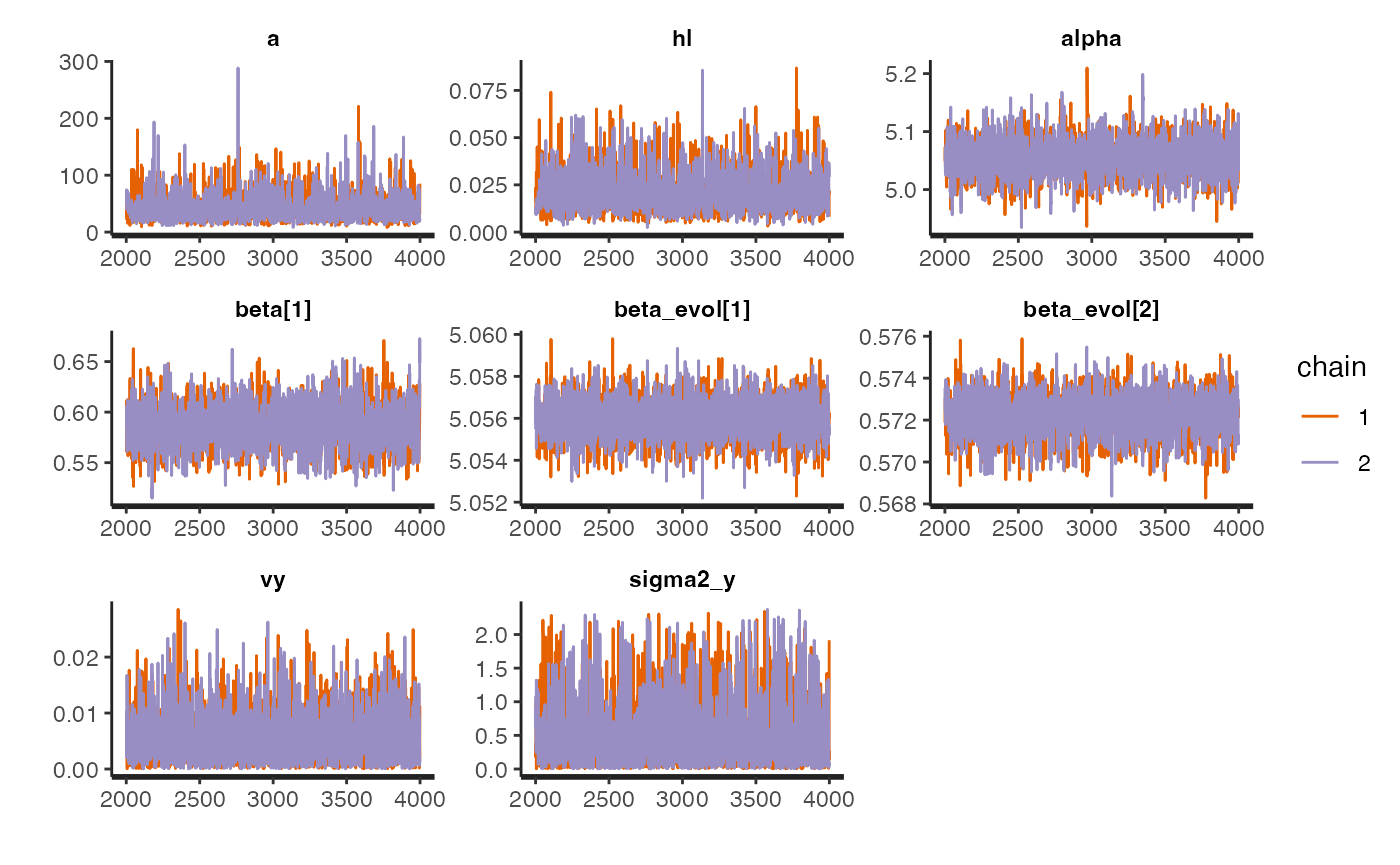
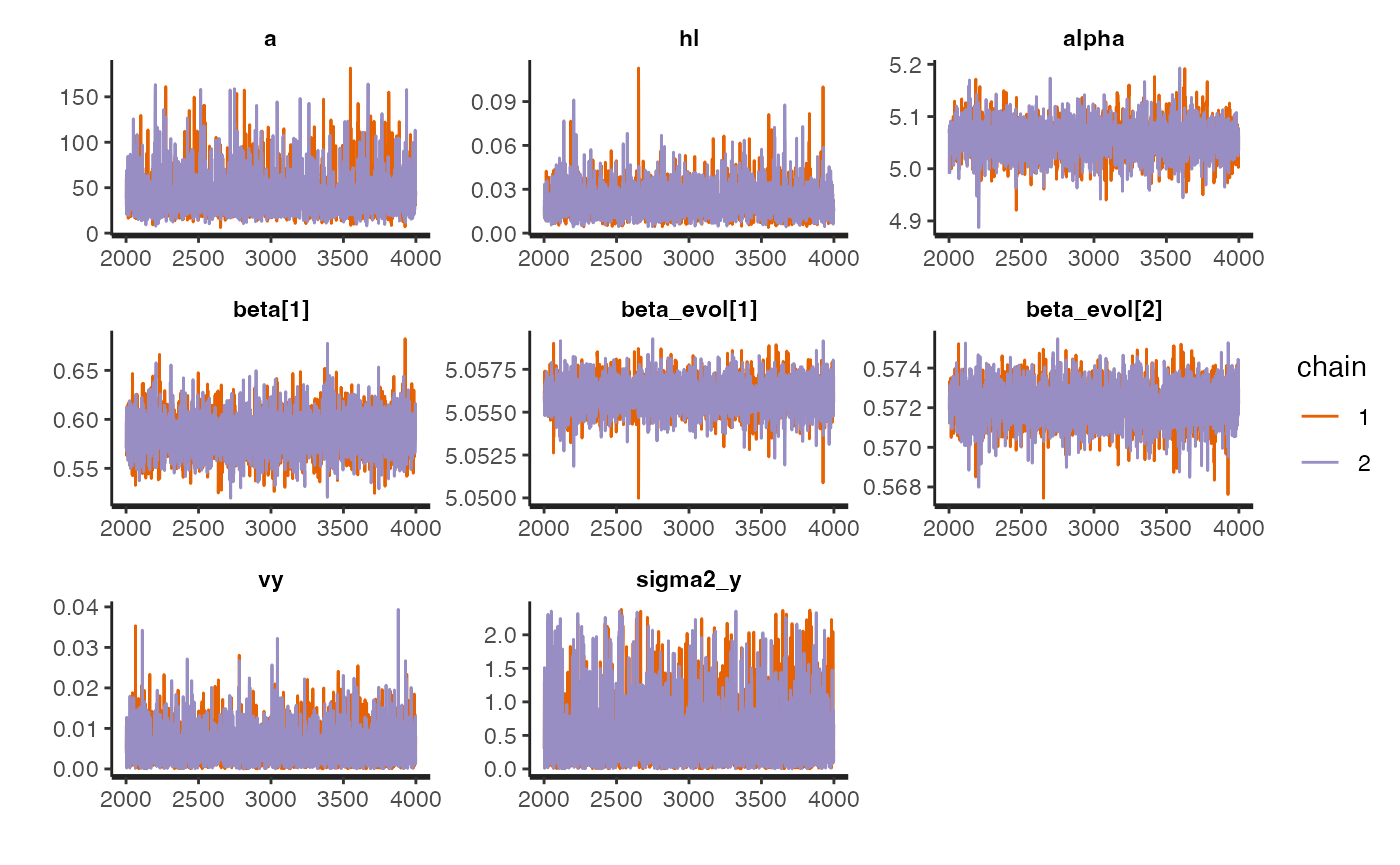
edit

diff --git a/docs/articles/OU-Models.html b/docs/articles/OU-Models.html
@@ -254,13 +254,13 @@
 <div class="sourceCode" id="cb9"><pre class="downlit sourceCode r">
 <code class="sourceCode R"><span class="co">#abline(v=(c(log(2)/0.07142857,log(2)/1)), col="red", lwd=2, lty=2) #Lines for 1 Ma and length of tree (14 Ma) - </span>
 <span class="fu"><a href="https://rdrr.io/r/base/Extremes.html" class="external-link">min</a></span><span class="op">(</span><span class="va">samp</span><span class="op">)</span>
-<span class="co">#&gt; [1] 0.03632472</span>
+<span class="co">#&gt; [1] 0.01052799</span>
 <span class="fu"><a href="https://rdrr.io/r/base/Extremes.html" class="external-link">max</a></span><span class="op">(</span><span class="va">samp</span><span class="op">)</span>
-<span class="co">#&gt; [1] 452.0468</span>
+<span class="co">#&gt; [1] 405.2668</span>
 <span class="fu"><a href="https://rdrr.io/r/base/Log.html" class="external-link">log</a></span><span class="op">(</span><span class="fl">2</span><span class="op">)</span><span class="op">/</span><span class="fu"><a href="https://rdrr.io/r/base/Extremes.html" class="external-link">min</a></span><span class="op">(</span><span class="va">samp</span><span class="op">)</span>
-<span class="co">#&gt; [1] 19.08197</span>
+<span class="co">#&gt; [1] 65.8385</span>
 <span class="fu"><a href="https://rdrr.io/r/base/Log.html" class="external-link">log</a></span><span class="op">(</span><span class="fl">2</span><span class="op">)</span><span class="op">/</span><span class="fu"><a href="https://rdrr.io/r/base/Extremes.html" class="external-link">max</a></span><span class="op">(</span><span class="va">samp</span><span class="op">)</span>
-<span class="co">#&gt; [1] 0.001533353</span>
+<span class="co">#&gt; [1] 0.001710348</span>
 
 <span class="va">quantiles</span> <span class="op">&lt;-</span> <span class="fu"><a href="https://rdrr.io/r/base/c.html" class="external-link">c</a></span><span class="op">(</span><span class="fl">0</span>, <span class="fl">0.01</span>, <span class="fl">0.025</span>,<span class="fl">0.10</span>, <span class="fl">0.25</span>, <span class="fl">0.5</span>, <span class="fl">0.75</span>,<span class="fl">0.90</span>,<span class="fl">0.95</span>, <span class="fl">0.975</span>, <span class="fl">0.99</span>, <span class="fl">1</span><span class="op">)</span>
 <span class="co">#hls &lt;- rlnorm(10000, meanlog=log(2)/par.alpha$meanlog, sdlog=log(2)/par.alpha$sdlog)</span>
@@ -268,7 +268,7 @@
 <span class="va">qs</span> <span class="op">&lt;-</span> <span class="fu"><a href="https://rdrr.io/r/stats/quantile.html" class="external-link">quantile</a></span><span class="op">(</span><span class="fu"><a href="https://rdrr.io/r/base/Log.html" class="external-link">log</a></span><span class="op">(</span><span class="fl">2</span><span class="op">)</span><span class="op">/</span><span class="va">samp</span>, <span class="va">quantiles</span><span class="op">)</span> <span class="co">## Use 'alfs' and math to calculate the quantiles of phylogenetic half-life</span>
 <span class="fu"><a href="https://rdrr.io/r/base/Round.html" class="external-link">round</a></span><span class="op">(</span><span class="va">qs</span>, <span class="fl">2</span><span class="op">)</span>
 <span class="co">#&gt;    0%    1%  2.5%   10%   25%   50%   75%   90%   95% 97.5%   99%  100% </span>
-<span class="co">#&gt;  0.00  0.01  0.02  0.04  0.09  0.20  0.46  0.98  1.52  2.26  3.72 19.08</span>
+<span class="co">#&gt;  0.00  0.01  0.02  0.04  0.08  0.20  0.46  0.98  1.55  2.31  3.69 65.84</span>
 
 <span class="fu"><a href="https://rdrr.io/r/graphics/hist.html" class="external-link">hist</a></span><span class="op">(</span><span class="op">(</span><span class="fu"><a href="https://rdrr.io/r/base/Log.html" class="external-link">log</a></span><span class="op">(</span><span class="fl">2</span><span class="op">)</span><span class="op">/</span><span class="va">samp</span><span class="op">)</span>, breaks<span class="op">=</span><span class="fl">10000</span>, main<span class="op">=</span><span class="st">"Prior density of half-life"</span>,xlim<span class="op">=</span><span class="fu"><a href="https://rdrr.io/r/base/c.html" class="external-link">c</a></span><span class="op">(</span><span class="fl">0</span>,<span class="fl">3</span><span class="op">)</span><span class="op">)</span>
 <span class="fu"><a href="https://rdrr.io/r/graphics/abline.html" class="external-link">abline</a></span><span class="op">(</span>v<span class="op">=</span><span class="op">(</span><span class="fu"><a href="https://rdrr.io/r/base/c.html" class="external-link">c</a></span><span class="op">(</span><span class="fl">0.04</span>,<span class="fl">1</span><span class="op">)</span><span class="op">)</span>, col<span class="op">=</span><span class="st">"red"</span>, lwd<span class="op">=</span><span class="fl">2</span>, lty<span class="op">=</span><span class="fl">2</span><span class="op">)</span> <span class="co">#Lines for 1 Ma and length of tree (27 Ma) - </span></code></pre></div>
@@ -298,21 +298,23 @@
 <div class="sourceCode" id="cb12"><pre class="downlit sourceCode r">
 <code class="sourceCode R"><span class="co">#abline(v=(c(log(2)/0.07142857,log(2)/1)), col="red", lwd=2, lty=2) #Lines for 1 Ma and length of tree (14 Ma) - </span>
 <span class="fu"><a href="https://rdrr.io/r/base/Extremes.html" class="external-link">min</a></span><span class="op">(</span><span class="va">samp</span><span class="op">)</span>
-<span class="co">#&gt; [1] 1.342805e-05</span>
+<span class="co">#&gt; [1] 8.337682e-06</span>
 <span class="fu"><a href="https://rdrr.io/r/base/Extremes.html" class="external-link">max</a></span><span class="op">(</span><span class="va">samp</span><span class="op">)</span>
-<span class="co">#&gt; [1] 689.2759</span>
+<span class="co">#&gt; [1] 10648.26</span>
 <span class="fu"><a href="https://rdrr.io/r/base/Log.html" class="external-link">log</a></span><span class="op">(</span><span class="fl">2</span><span class="op">)</span><span class="op">/</span><span class="fu"><a href="https://rdrr.io/r/base/Extremes.html" class="external-link">min</a></span><span class="op">(</span><span class="va">samp</span><span class="op">)</span>
-<span class="co">#&gt; [1] 51619.34</span>
+<span class="co">#&gt; [1] 83134.28</span>
 <span class="fu"><a href="https://rdrr.io/r/base/Log.html" class="external-link">log</a></span><span class="op">(</span><span class="fl">2</span><span class="op">)</span><span class="op">/</span><span class="fu"><a href="https://rdrr.io/r/base/Extremes.html" class="external-link">max</a></span><span class="op">(</span><span class="va">samp</span><span class="op">)</span>
-<span class="co">#&gt; [1] 0.001005616</span>
+<span class="co">#&gt; [1] 6.509486e-05</span>
 
 <span class="va">quantiles</span> <span class="op">&lt;-</span> <span class="fu"><a href="https://rdrr.io/r/base/c.html" class="external-link">c</a></span><span class="op">(</span><span class="fl">0</span>, <span class="fl">0.01</span>, <span class="fl">0.025</span>,<span class="fl">0.10</span>, <span class="fl">0.25</span>, <span class="fl">0.5</span>, <span class="fl">0.75</span>, <span class="fl">0.90</span>, <span class="fl">0.975</span>, <span class="fl">0.99</span>, <span class="fl">1</span><span class="op">)</span>
 <span class="co">#hls &lt;- rlnorm(10000, meanlog=log(2)/par.alpha$meanlog, sdlog=log(2)/par.alpha$sdlog)</span>
 <span class="co">#hls&lt;-hls[hls&gt;=0]</span>
 <span class="va">qs</span> <span class="op">&lt;-</span> <span class="fu"><a href="https://rdrr.io/r/stats/quantile.html" class="external-link">quantile</a></span><span class="op">(</span><span class="va">samp</span>, <span class="va">quantiles</span><span class="op">)</span> <span class="co">## Use 'alfs' and math to calculate the quantiles of phylogenetic half-life</span>
 <span class="fu"><a href="https://rdrr.io/r/base/Round.html" class="external-link">round</a></span><span class="op">(</span><span class="va">qs</span>, <span class="fl">2</span><span class="op">)</span>
-<span class="co">#&gt;     0%     1%   2.5%    10%    25%    50%    75%    90%  97.5%    99%   100% </span>
-<span class="co">#&gt;   0.00   0.00   0.00   0.02   0.04   0.10   0.24   0.62   2.57   6.93 689.28</span>
+<span class="co">#&gt;       0%       1%     2.5%      10%      25%      50%      75%      90% </span>
+<span class="co">#&gt;     0.00     0.00     0.00     0.02     0.04     0.10     0.24     0.64 </span>
+<span class="co">#&gt;    97.5%      99%     100% </span>
+<span class="co">#&gt;     2.71     6.84 10648.26</span>
 
 <span class="fu"><a href="https://rdrr.io/r/graphics/hist.html" class="external-link">hist</a></span><span class="op">(</span><span class="va">samp</span><span class="op">/</span><span class="op">(</span><span class="fl">2</span><span class="op">*</span><span class="fl">2</span><span class="op">)</span>, breaks<span class="op">=</span><span class="fl">10000</span>, main<span class="op">=</span><span class="st">"Prior density of Vy"</span>,xlim<span class="op">=</span><span class="fu"><a href="https://rdrr.io/r/base/c.html" class="external-link">c</a></span><span class="op">(</span><span class="fl">0</span>,<span class="fl">3</span><span class="op">)</span><span class="op">)</span></code></pre></div>
 <p><img src="OU-Models_files/figure-html/unnamed-chunk-6-2.png" width="700"></p>
@@ -337,15 +339,15 @@
 <span class="co">#&gt; post-warmup draws per chain=2000, total post-warmup draws=4000.</span>
 <span class="co">#&gt; </span>
 <span class="co">#&gt;           mean se_mean   sd 2.5%  25%  50%  75% 97.5% n_eff Rhat</span>
-<span class="co">#&gt; a         5.67    0.26 8.54 0.39 1.44 2.87 6.02 29.39  1072    1</span>
-<span class="co">#&gt; hl        0.40    0.01 0.51 0.02 0.12 0.24 0.48  1.78  1730    1</span>
-<span class="co">#&gt; alpha     5.05    0.00 0.04 4.97 5.03 5.05 5.08  5.14  1454    1</span>
-<span class="co">#&gt; beta[1]   0.57    0.00 0.02 0.53 0.55 0.57 0.58  0.61  2000    1</span>
-<span class="co">#&gt; vy        0.02    0.00 0.01 0.01 0.01 0.02 0.02  0.05  2207    1</span>
-<span class="co">#&gt; r_squared 0.96    0.00 0.00 0.95 0.96 0.96 0.96  0.97  1030    1</span>
-<span class="co">#&gt; sigma2_y  0.16    0.01 0.22 0.02 0.05 0.08 0.16  0.78   979    1</span>
+<span class="co">#&gt; a         5.60    0.27 8.27 0.41 1.47 2.90 6.28 29.58   945    1</span>
+<span class="co">#&gt; hl        0.39    0.01 0.48 0.02 0.11 0.24 0.47  1.71  1330    1</span>
+<span class="co">#&gt; alpha     5.05    0.00 0.04 4.97 5.03 5.05 5.08  5.14  1834    1</span>
+<span class="co">#&gt; beta[1]   0.57    0.00 0.02 0.53 0.56 0.57 0.58  0.61  1979    1</span>
+<span class="co">#&gt; vy        0.02    0.00 0.01 0.01 0.01 0.01 0.02  0.04  2052    1</span>
+<span class="co">#&gt; r_squared 0.96    0.00 0.00 0.95 0.96 0.96 0.96  0.97   897    1</span>
+<span class="co">#&gt; sigma2_y  0.15    0.01 0.22 0.02 0.05 0.08 0.16  0.80   919    1</span>
 <span class="co">#&gt; </span>
-<span class="co">#&gt; Samples were drawn using NUTS(diag_e) at Thu Dec  9 09:18:25 2021.</span>
+<span class="co">#&gt; Samples were drawn using NUTS(diag_e) at Thu Dec  9 09:47:31 2021.</span>
 <span class="co">#&gt; For each parameter, n_eff is a crude measure of effective sample size,</span>
 <span class="co">#&gt; and Rhat is the potential scale reduction factor on split chains (at </span>
 <span class="co">#&gt; convergence, Rhat=1).</span>
@@ -385,17 +387,17 @@
 <span class="co">#&gt; post-warmup draws per chain=2000, total post-warmup draws=4000.</span>
 <span class="co">#&gt; </span>
 <span class="co">#&gt;               mean se_mean    sd  2.5%   25%   50%   75%  97.5% n_eff Rhat</span>
-<span class="co">#&gt; a            42.34    0.59 22.73 14.84 27.04 36.79 51.70 101.32  1496    1</span>
-<span class="co">#&gt; hl            0.02    0.00  0.01  0.01  0.01  0.02  0.03   0.05  1771    1</span>
-<span class="co">#&gt; alpha         5.06    0.00  0.03  4.99  5.04  5.06  5.08   5.12  2533    1</span>
-<span class="co">#&gt; beta[1]       0.59    0.00  0.02  0.55  0.57  0.59  0.60   0.63  2705    1</span>
-<span class="co">#&gt; beta_evol[1]  5.06    0.00  0.00  5.05  5.06  5.06  5.06   5.06  3868    1</span>
-<span class="co">#&gt; beta_evol[2]  0.57    0.00  0.00  0.57  0.57  0.57  0.57   0.57  2226    1</span>
-<span class="co">#&gt; vy            0.01    0.00  0.00  0.00  0.00  0.00  0.01   0.02  3503    1</span>
-<span class="co">#&gt; r_squared     0.96    0.00  0.00  0.95  0.96  0.96  0.96   0.97  1557    1</span>
-<span class="co">#&gt; sigma2_y      0.47    0.01  0.47  0.01  0.12  0.31  0.67   1.82  1872    1</span>
+<span class="co">#&gt; a            43.01    0.53 23.09 14.69 27.00 37.29 52.82 104.58  1913    1</span>
+<span class="co">#&gt; hl            0.02    0.00  0.01  0.01  0.01  0.02  0.03   0.05  2231    1</span>
+<span class="co">#&gt; alpha         5.06    0.00  0.03  4.99  5.04  5.06  5.08   5.12  2023    1</span>
+<span class="co">#&gt; beta[1]       0.59    0.00  0.02  0.55  0.57  0.58  0.60   0.63  2800    1</span>
+<span class="co">#&gt; beta_evol[1]  5.06    0.00  0.00  5.05  5.06  5.06  5.06   5.06  3838    1</span>
+<span class="co">#&gt; beta_evol[2]  0.57    0.00  0.00  0.57  0.57  0.57  0.57   0.57  2651    1</span>
+<span class="co">#&gt; vy            0.01    0.00  0.00  0.00  0.00  0.00  0.01   0.02  3517    1</span>
+<span class="co">#&gt; r_squared     0.96    0.00  0.00  0.95  0.96  0.96  0.96   0.97  1368    1</span>
+<span class="co">#&gt; sigma2_y      0.49    0.01  0.50  0.01  0.12  0.31  0.70   1.91  2058    1</span>
 <span class="co">#&gt; </span>
-<span class="co">#&gt; Samples were drawn using NUTS(diag_e) at Thu Dec  9 09:24:19 2021.</span>
+<span class="co">#&gt; Samples were drawn using NUTS(diag_e) at Thu Dec  9 09:53:40 2021.</span>
 <span class="co">#&gt; For each parameter, n_eff is a crude measure of effective sample size,</span>
 <span class="co">#&gt; and Rhat is the potential scale reduction factor on split chains (at </span>
 <span class="co">#&gt; convergence, Rhat=1).</span>
@@ -424,7 +426,7 @@
 <span class="va">lml.fit.adaptive</span><span class="op">&lt;-</span><span class="fu"><a href="https://rdrr.io/pkg/bridgesampling/man/bridge_sampler.html" class="external-link">bridge_sampler</a></span><span class="op">(</span><span class="va">fit.adaptive</span>,silent<span class="op">=</span><span class="cn">TRUE</span><span class="op">)</span>
 <span class="va">BF_att</span> <span class="op">&lt;-</span> <span class="fu">bridgesampling</span><span class="fu">::</span><span class="fu"><a href="https://rdrr.io/pkg/bridgesampling/man/bf.html" class="external-link">bf</a></span><span class="op">(</span><span class="va">lml.fit.direct</span>, <span class="va">lml.fit.adaptive</span><span class="op">)</span>
 <span class="va">BF_att</span>
-<span class="co">#&gt; Estimated Bayes factor in favor of lml.fit.direct over lml.fit.adaptive: 33.22295</span></code></pre></div>
+<span class="co">#&gt; Estimated Bayes factor in favor of lml.fit.direct over lml.fit.adaptive: 32.76058</span></code></pre></div>
 <p>We find that the data is 5.2 more likely under a model that assumes a direct effect model rather than af adaptive model.</p>
 </div>
 <div class="section level2">
@@ -440,12 +442,12 @@
 <span class="co">#&gt; post-warmup draws per chain=2000, total post-warmup draws=4000.</span>
 <span class="co">#&gt; </span>
 <span class="co">#&gt;           mean se_mean   sd 2.5%  25%  50%  75% 97.5% n_eff Rhat</span>
-<span class="co">#&gt; alpha     5.05       0 0.08 4.89 5.00 5.05 5.11  5.22  2861    1</span>
-<span class="co">#&gt; beta[1]   0.56       0 0.02 0.51 0.54 0.56 0.57  0.60  2949    1</span>
-<span class="co">#&gt; r_squared 0.99       0 0.01 0.98 0.99 0.99 0.99  0.99  2577    1</span>
-<span class="co">#&gt; sigma2_y  0.03       0 0.01 0.01 0.02 0.02 0.03  0.05  3048    1</span>
+<span class="co">#&gt; alpha     5.05       0 0.08 4.89 5.00 5.05 5.10  5.22  2970    1</span>
+<span class="co">#&gt; beta[1]   0.56       0 0.02 0.51 0.54 0.56 0.57  0.60  3490    1</span>
+<span class="co">#&gt; r_squared 0.99       0 0.01 0.97 0.99 0.99 0.99  0.99  2400    1</span>
+<span class="co">#&gt; sigma2_y  0.03       0 0.01 0.01 0.02 0.02 0.03  0.05  2736    1</span>
 <span class="co">#&gt; </span>
-<span class="co">#&gt; Samples were drawn using NUTS(diag_e) at Thu Dec  9 09:27:32 2021.</span>
+<span class="co">#&gt; Samples were drawn using NUTS(diag_e) at Thu Dec  9 09:56:29 2021.</span>
 <span class="co">#&gt; For each parameter, n_eff is a crude measure of effective sample size,</span>
 <span class="co">#&gt; and Rhat is the potential scale reduction factor on split chains (at </span>
 <span class="co">#&gt; convergence, Rhat=1).</span>
@@ -475,7 +477,7 @@
 
 <span class="va">BF_att</span> <span class="op">&lt;-</span> <span class="fu">bridgesampling</span><span class="fu">::</span><span class="fu"><a href="https://rdrr.io/pkg/bridgesampling/man/bf.html" class="external-link">bf</a></span><span class="op">(</span><span class="va">lml.fit.direct</span>, <span class="va">lml.fit.BM</span><span class="op">)</span>
 <span class="va">BF_att</span>
-<span class="co">#&gt; Estimated Bayes factor in favor of lml.fit.direct over lml.fit.BM: 1.30701</span></code></pre></div>
+<span class="co">#&gt; Estimated Bayes factor in favor of lml.fit.direct over lml.fit.BM: 1.27662</span></code></pre></div>
 <p>Here the direct fit model has a Bayes Factor of 0.7 over the BM model, which makes sense for this data as the estimated phylogenetic half life is quite long, 65% the length of the phylogeny.</p>
 </div>
 <div class="section level2">

diff --git a/docs/articles/OU-Models-Prediction.html b/docs/articles/OU-Models-Prediction.html
@@ -245,17 +245,17 @@
 <span class="co">#&gt; post-warmup draws per chain=2000, total post-warmup draws=4000.</span>
 <span class="co">#&gt; </span>
 <span class="co">#&gt;                      mean se_mean   sd  2.5%   25%   50%   75% 97.5% n_eff Rhat</span>
-<span class="co">#&gt; a                    5.44    0.28 8.39  0.39  1.32  2.60  5.95 28.49   917    1</span>
-<span class="co">#&gt; hl                   0.42    0.01 0.56  0.02  0.12  0.27  0.53  1.79  2010    1</span>
-<span class="co">#&gt; alpha                5.07    0.00 0.04  4.99  5.04  5.06  5.09  5.15  2074    1</span>
-<span class="co">#&gt; beta[1]              0.57    0.00 0.02  0.53  0.56  0.57  0.58  0.61  1912    1</span>
-<span class="co">#&gt; r_squared            0.96    0.00 0.00  0.95  0.96  0.96  0.97  0.97  1088    1</span>
-<span class="co">#&gt; sigma2_y             0.14    0.01 0.21  0.02  0.04  0.07  0.15  0.75   959    1</span>
-<span class="co">#&gt; RMSE                 0.29    0.00 0.03  0.24  0.28  0.29  0.31  0.35  3657    1</span>
-<span class="co">#&gt; RMSE_mu              0.27    0.00 0.02  0.26  0.26  0.26  0.27  0.32  1218    1</span>
-<span class="co">#&gt; X_pred_fos_means[1] -0.47    0.00 0.17 -0.81 -0.59 -0.47 -0.36 -0.13  3567    1</span>
+<span class="co">#&gt; a                    5.74    0.23 8.16  0.40  1.46  2.84  6.49 27.65  1243    1</span>
+<span class="co">#&gt; hl                   0.39    0.01 0.51  0.03  0.11  0.24  0.47  1.72  1786    1</span>
+<span class="co">#&gt; alpha                5.07    0.00 0.04  5.00  5.04  5.06  5.08  5.15  1409    1</span>
+<span class="co">#&gt; beta[1]              0.57    0.00 0.02  0.53  0.56  0.57  0.58  0.61  2309    1</span>
+<span class="co">#&gt; r_squared            0.96    0.00 0.00  0.95  0.96  0.96  0.97  0.97  1156    1</span>
+<span class="co">#&gt; sigma2_y             0.15    0.01 0.22  0.02  0.04  0.07  0.16  0.76  1248    1</span>
+<span class="co">#&gt; RMSE                 0.29    0.00 0.03  0.24  0.27  0.29  0.31  0.35  3459    1</span>
+<span class="co">#&gt; RMSE_mu              0.27    0.00 0.02  0.26  0.26  0.26  0.27  0.32   919    1</span>
+<span class="co">#&gt; X_pred_fos_means[1] -0.47    0.00 0.17 -0.81 -0.59 -0.48 -0.37 -0.14  3216    1</span>
 <span class="co">#&gt; </span>
-<span class="co">#&gt; Samples were drawn using NUTS(diag_e) at Thu Dec  9 09:07:15 2021.</span>
+<span class="co">#&gt; Samples were drawn using NUTS(diag_e) at Thu Dec  9 09:35:27 2021.</span>
 <span class="co">#&gt; For each parameter, n_eff is a crude measure of effective sample size,</span>
 <span class="co">#&gt; and Rhat is the potential scale reduction factor on split chains (at </span>
 <span class="co">#&gt; convergence, Rhat=1).</span>
@@ -441,17 +441,17 @@
 <span class="co">#&gt; post-warmup draws per chain=2000, total post-warmup draws=4000.</span>
 <span class="co">#&gt; </span>
 <span class="co">#&gt;                     mean se_mean   sd 2.5%  25%  50%  75% 97.5% n_eff Rhat</span>
-<span class="co">#&gt; a                   5.81    0.27 8.51 0.45 1.53 2.92 6.49 31.02   973    1</span>
-<span class="co">#&gt; hl                  0.37    0.01 0.49 0.02 0.11 0.24 0.45  1.53  1678    1</span>
-<span class="co">#&gt; alpha               5.06    0.00 0.04 5.00 5.04 5.06 5.08  5.15  2123    1</span>
-<span class="co">#&gt; beta[1]             0.57    0.00 0.02 0.53 0.56 0.57 0.58  0.61  2089    1</span>
-<span class="co">#&gt; r_squared           0.96    0.00 0.00 0.95 0.96 0.96 0.97  0.97  1222    1</span>
-<span class="co">#&gt; sigma2_y            0.15    0.01 0.23 0.02 0.04 0.08 0.16  0.82   874    1</span>
-<span class="co">#&gt; RMSE                0.21    0.00 0.03 0.17 0.20 0.21 0.23  0.27  3701    1</span>
-<span class="co">#&gt; RMSE_mu             0.15    0.00 0.01 0.15 0.15 0.15 0.16  0.18  1210    1</span>
-<span class="co">#&gt; Y_pred_fos_means[1] 5.09    0.00 0.13 4.85 5.01 5.09 5.17  5.34  3531    1</span>
+<span class="co">#&gt; a                   5.65    0.26 8.79 0.40 1.40 2.84 6.08 29.32  1119    1</span>
+<span class="co">#&gt; hl                  0.40    0.01 0.48 0.02 0.11 0.24 0.49  1.74  1838    1</span>
+<span class="co">#&gt; alpha               5.07    0.00 0.04 5.00 5.04 5.06 5.09  5.15  1881    1</span>
+<span class="co">#&gt; beta[1]             0.57    0.00 0.02 0.53 0.56 0.57 0.58  0.61  2394    1</span>
+<span class="co">#&gt; r_squared           0.96    0.00 0.00 0.95 0.96 0.96 0.97  0.97  1212    1</span>
+<span class="co">#&gt; sigma2_y            0.15    0.01 0.22 0.02 0.04 0.08 0.15  0.78  1024    1</span>
+<span class="co">#&gt; RMSE                0.21    0.00 0.03 0.17 0.20 0.21 0.23  0.27  3365    1</span>
+<span class="co">#&gt; RMSE_mu             0.15    0.00 0.01 0.15 0.15 0.15 0.16  0.18  1182    1</span>
+<span class="co">#&gt; Y_pred_fos_means[1] 5.09    0.00 0.13 4.85 5.01 5.09 5.17  5.34  3362    1</span>
 <span class="co">#&gt; </span>
-<span class="co">#&gt; Samples were drawn using NUTS(diag_e) at Thu Dec  9 09:12:09 2021.</span>
+<span class="co">#&gt; Samples were drawn using NUTS(diag_e) at Thu Dec  9 09:40:35 2021.</span>
 <span class="co">#&gt; For each parameter, n_eff is a crude measure of effective sample size,</span>
 <span class="co">#&gt; and Rhat is the potential scale reduction factor on split chains (at </span>
 <span class="co">#&gt; convergence, Rhat=1).</span>

diff --git a/docs/index.html b/docs/index.html
@@ -140,7 +140,7 @@
 <div class="developers">
 <h2 data-toc-skip>Developers</h2>
 <ul class="list-unstyled">
-<li>Mark Grabowski <br><small class="roles"> Author, maintainer </small> <a href="https://orcid.org/YOUR-ORCID-ID" target="orcid.widget" aria-label="ORCID" class="external-link"><span class="fab fa-orcid orcid" aria-hidden="true"></span></a> </li>
+<li>Mark Grabowski <br><small class="roles"> Author, maintainer </small> <a href="https://orcid.org/https://orcid.org/0000-0001-7045-9472" target="orcid.widget" aria-label="ORCID" class="external-link"><span class="fab fa-orcid orcid" aria-hidden="true"></span></a> </li>
 </ul>
 </div>
 

diff --git a/docs/authors.html b/docs/authors.html
@@ -64,7 +64,7 @@
       <h2>Authors</h2>
       
       <ul class="list-unstyled"><li>
-          <p><strong>Mark Grabowski</strong>. Author, maintainer. <a href="https://orcid.org/YOUR-ORCID-ID" target="orcid.widget" aria-label="ORCID" class="external-link"><span class="fab fa-orcid orcid" aria-hidden="true"></span></a>
+          <p><strong>Mark Grabowski</strong>. Author, maintainer. <a href="https://orcid.org/https://orcid.org/0000-0001-7045-9472" target="orcid.widget" aria-label="ORCID" class="external-link"><span class="fab fa-orcid orcid" aria-hidden="true"></span></a>
           </p>
         </li>
       </ul></div>
